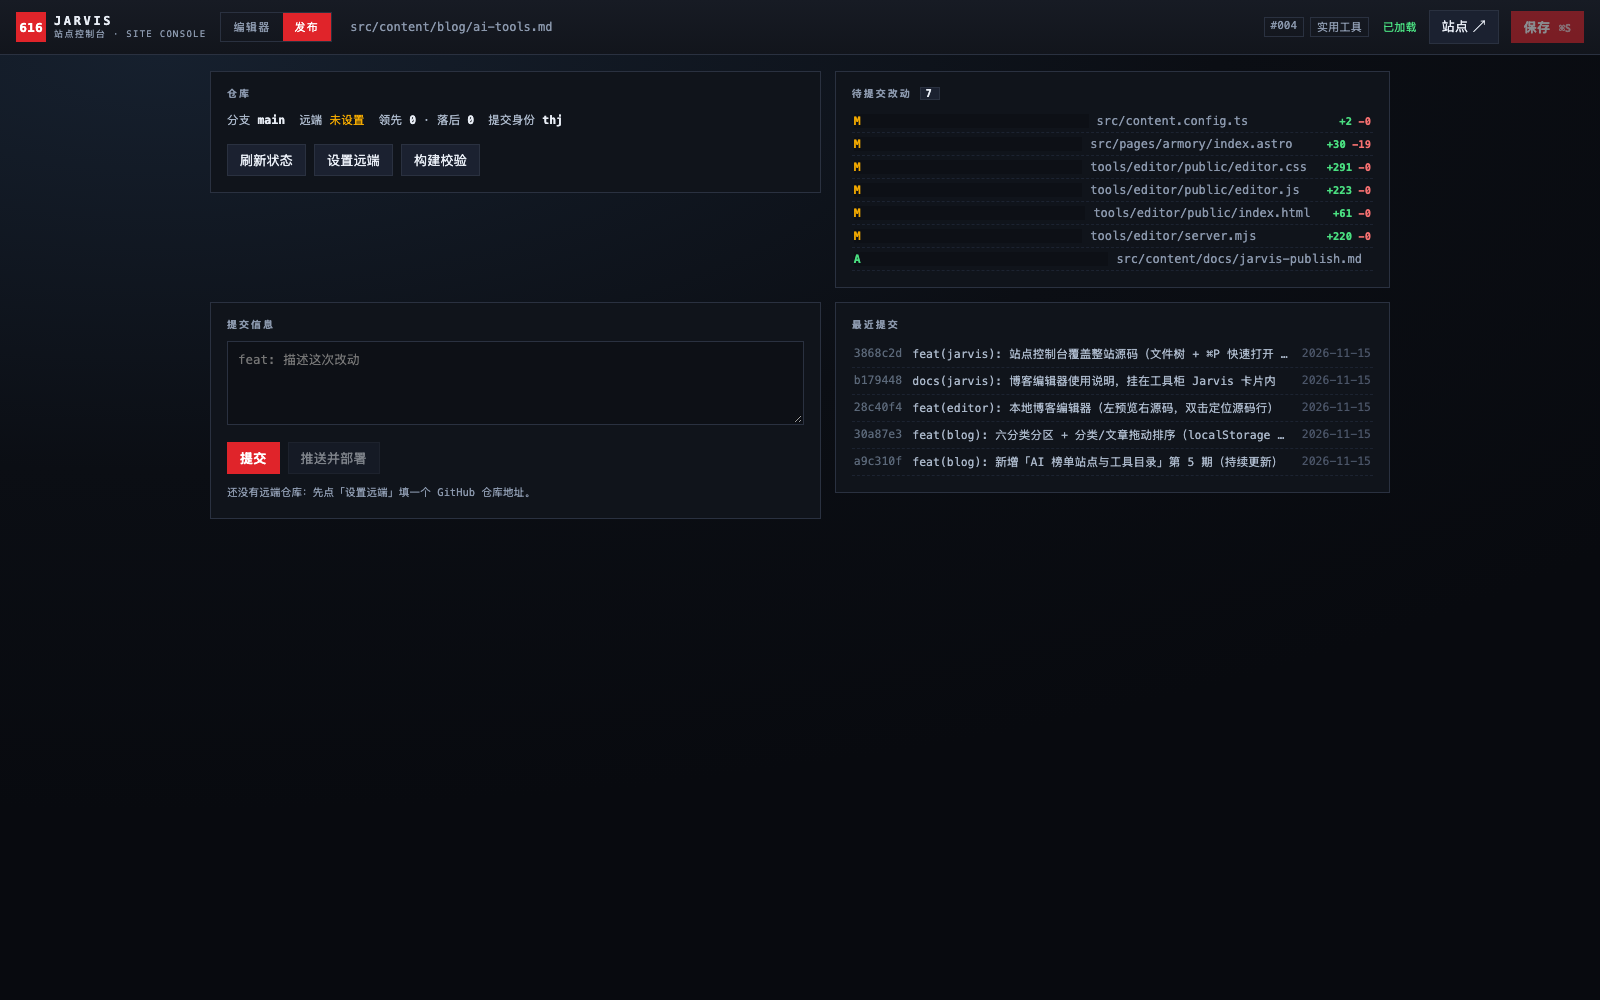
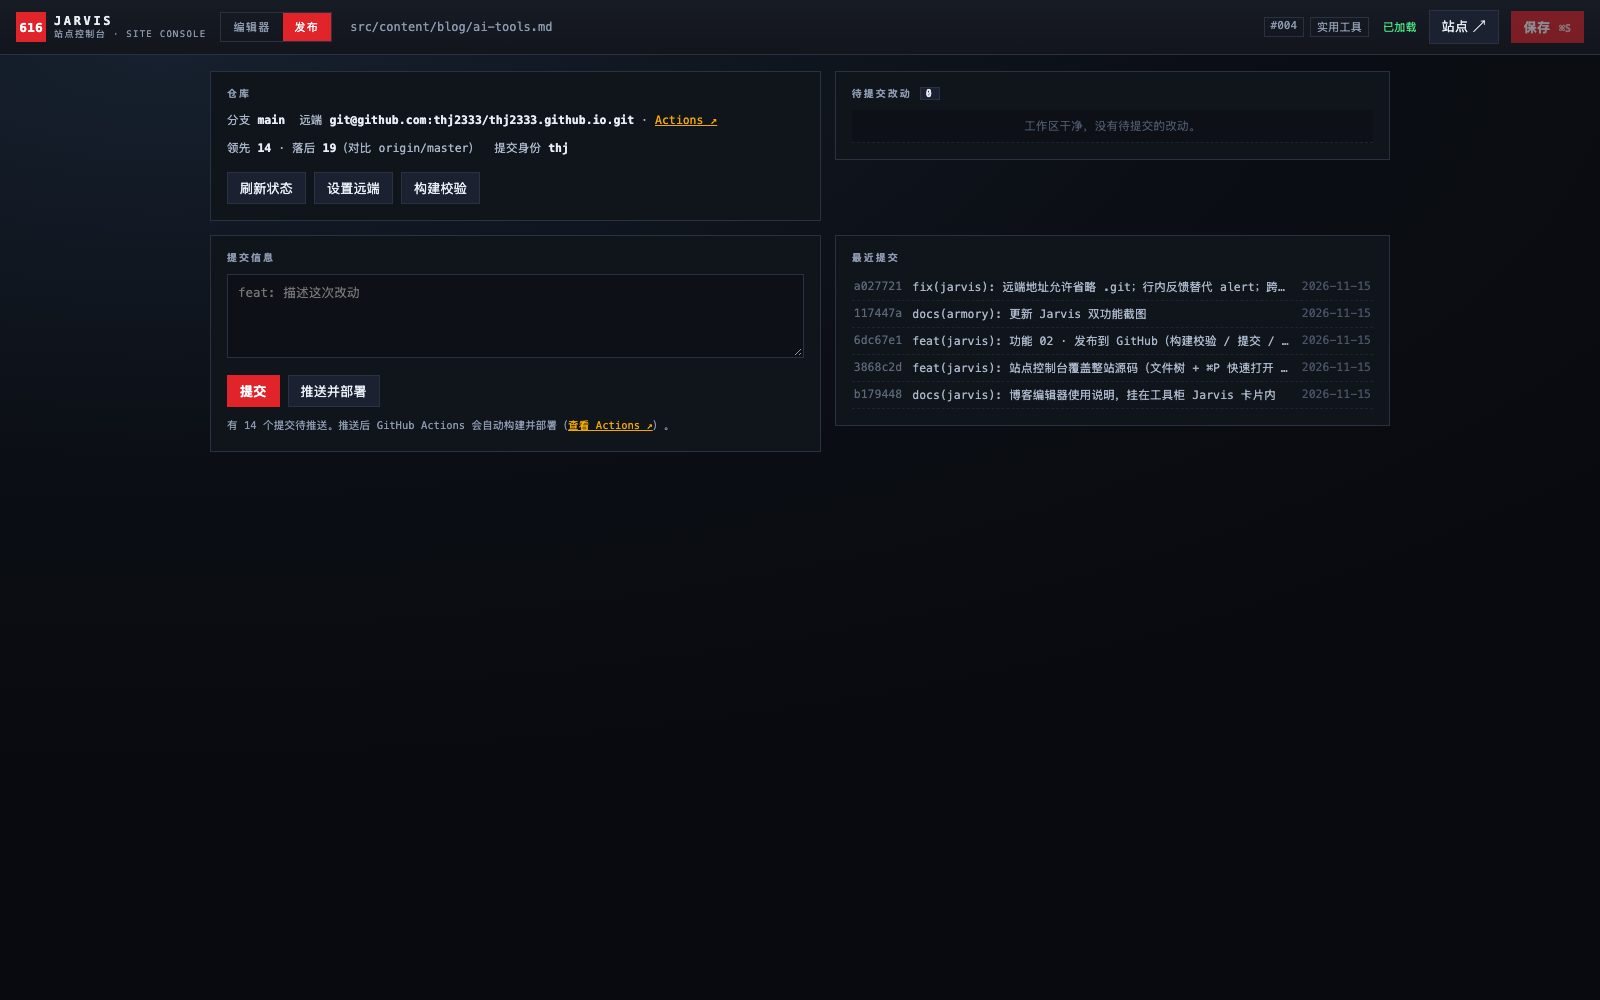
fix(jarvis): 分支不一致时优先提示推送会新建分支

diff --git a/tools/editor/public/editor.js b/tools/editor/public/editor.js
@@ -643,15 +643,20 @@ window.addEventListener("message", (e) => {
       U.pushHint.innerHTML = "还没有远端仓库：先点「设置远端」填一个 GitHub 仓库地址。";
       return;
     }
+    if (g.remoteDefault && g.remoteDefault !== g.branch) {
+      const url = actionsUrl(g);
+      U.pushHint.innerHTML =
+        `远端默认分支是 <b>${esc(g.remoteDefault)}</b>，本地是 <b>${esc(g.branch)}</b>：推送会新建一个分支，不会覆盖旧站。` +
+        `要在 GitHub 里把默认分支和 Pages 源切到 <b>${esc(g.branch)}</b> 才会生效` +
+        (url ? `（<a href="${url}" target="_blank" rel="noopener">查看 Actions ↗</a>）` : "") +
+        "。";
+      return;
+    }
     if (g.ahead > 0) {
       const url = actionsUrl(g);
       U.pushHint.innerHTML = `有 ${g.ahead} 个提交待推送。推送后 GitHub Actions 会自动构建并部署${
         url ? `（<a href="${url}" target="_blank" rel="noopener">查看 Actions ↗</a>）` : ""
       }。`;
-      return;
-    }
-    if (g.remoteDefault && g.remoteDefault !== g.branch) {
-      U.pushHint.innerHTML = `远端默认分支是 <b>${esc(g.remoteDefault)}</b>，推送会新建 <b>${esc(g.branch)}</b> 分支，不会覆盖旧站。切默认分支和 Pages 源到新分支后才会生效。`;
       return;
     }
     U.pushHint.innerHTML = "本地与远端一致。改完东西记得先「构建校验」，再提交、推送。";
